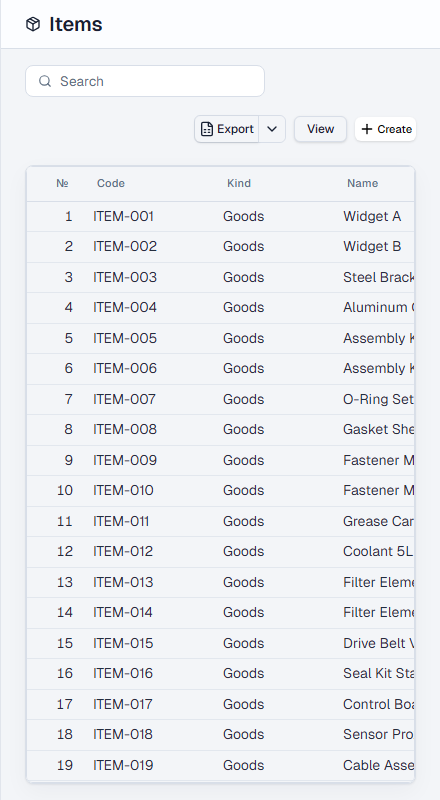
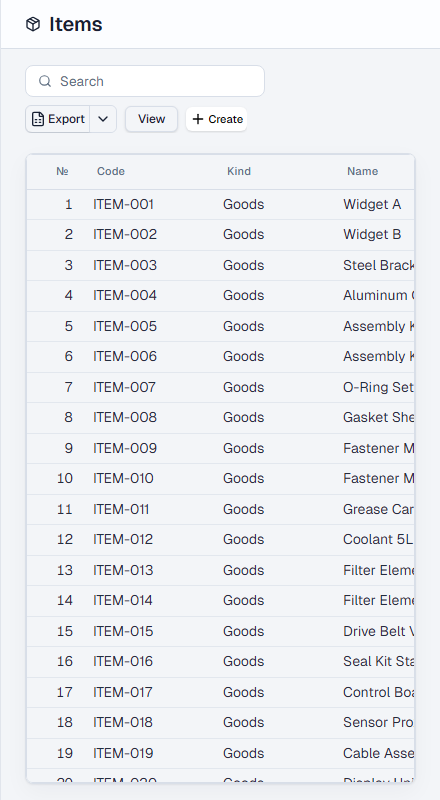
Update items toolbar metrics and styles for improved layout and responsiveness. Adjust dimensions in JSON configuration, enhance CSS for minimum width, and refactor component structure in ItemsListPage for better flex behavior and overflow handling.

diff --git a/src/modules/items/pages/ItemsListPage.tsx b/src/modules/items/pages/ItemsListPage.tsx
@@ -763,7 +763,7 @@ export function ItemsListPage() {
     <ListPageLayout
       header={null}
       controls={
-        <>
+        <div className="list-page__controls-stack flex w-full min-w-0 flex-wrap items-center justify-between gap-x-4 gap-y-2">
           <ListPageSearch
             inputRef={listSearchInputRef}
             placeholder={t("ops.list.items.searchPlaceholder")}
@@ -773,7 +773,7 @@ export function ItemsListPage() {
             aria-label={t("ops.list.items.searchAria")}
             resultCount={displayItems.length}
           />
-          <div className="list-page__toolbar-actions-cluster ml-auto flex min-w-0 flex-wrap items-center justify-end gap-2">
+          <div className="list-page__toolbar-actions-cluster flex max-w-full min-w-0 flex-wrap items-center justify-end gap-2 overflow-x-auto">
             {brandFilterId != null && (
               <div
                 className="flex h-8 max-w-[min(100%,18rem)] shrink-0 items-center gap-1.5 rounded-md border border-input bg-background px-2 text-xs"
@@ -941,7 +941,7 @@ export function ItemsListPage() {
               {t("doc.list.create")}
             </Button>
           </div>
-        </>
+        </div>
       }
     >
       {listContent}

diff --git a/src/App.css b/src/App.css
@@ -62,6 +62,7 @@ summary,
 .app-page-content {
   flex: 1;
   min-height: 0;
+  min-width: 0;
   display: flex;
   flex-direction: column;
   overflow: auto;
@@ -236,12 +237,6 @@ summary,
   height: 2rem !important;
   min-height: 2rem !important;
   box-sizing: border-box;
-}
-
-/* Right-side toolbar cluster may wrap to multiple lines (/items Export+View+Create); do not clip at 2rem */
-.list-page__controls > .list-page__toolbar-actions-cluster {
-  height: auto !important;
-  min-height: 2rem !important;
 }
 .list-page__controls > .list-page__controls-stack {
   height: auto !important;
